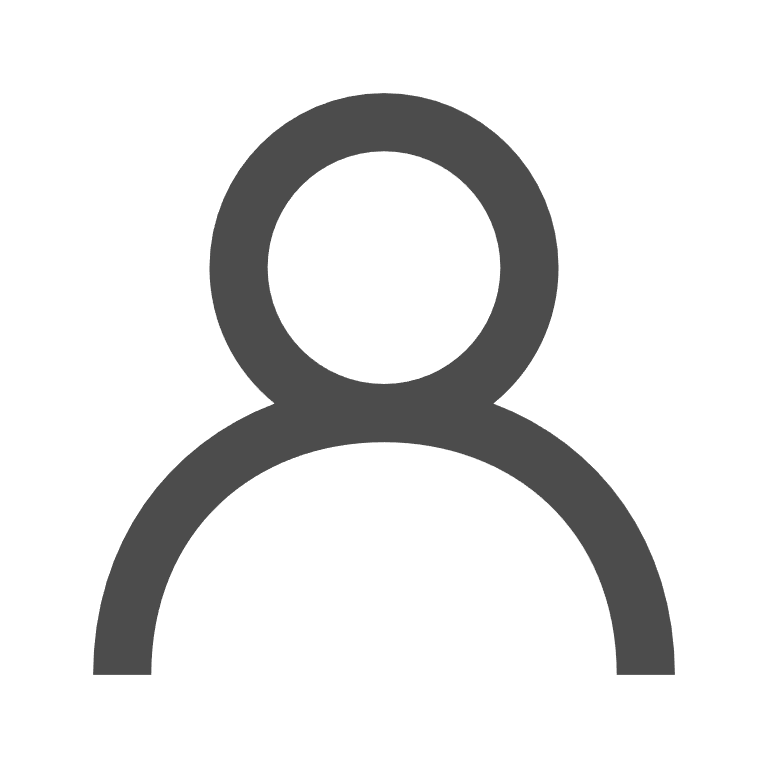
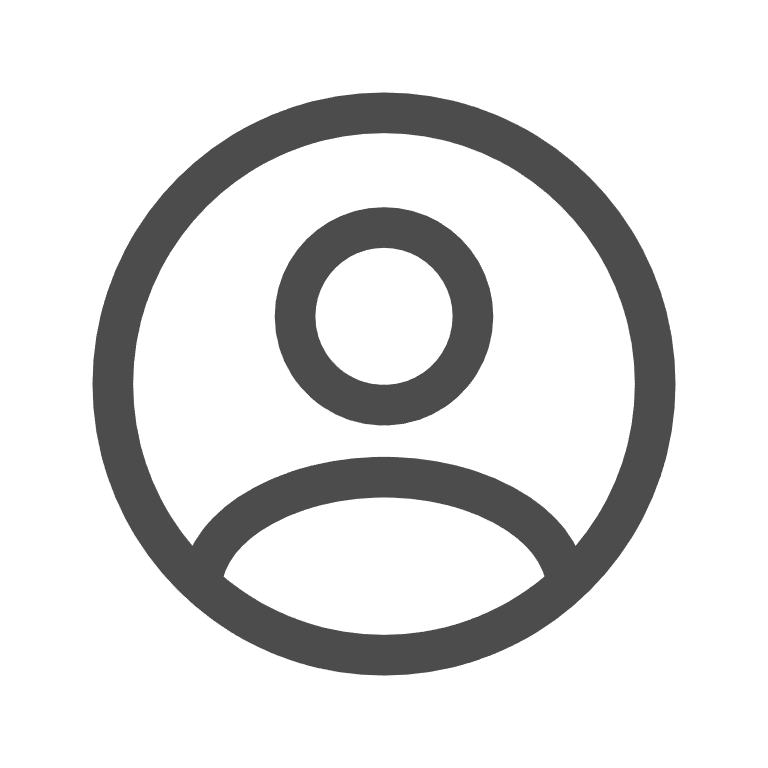
Change settings to profile

Changed region(s): [[0.0938, 0.125, 0.9062, 0.9062]]

diff --git a/js/HoverPopover.js b/js/HoverPopover.js
@@ -1,11 +1,7 @@
 // ============================================================
 // HOVER POPOVERS
 // Used for the sidebar tooltips/menus (New / List / Settings icons).
-//
-// MOBILE_QUERY must stay in sync with the breakpoint in css/responsive.css.
-// Hover popovers rely on mouseenter/mouseleave, which touch devices don't
-// fire reliably, so they are intentionally disabled below this breakpoint
-// rather than left to misbehave (get stuck open, never close, etc).
+// Mobile devices do NOT have hover popovers.
 // ============================================================
 
 const MOBILE_QUERY = '(max-width: 48rem)';
@@ -43,6 +39,14 @@ export class HoverPopover {
         this.popover.addEventListener('mouseenter', () => clearTimeout(this.hideTimeout));
         this.popover.addEventListener('mouseleave', () => this.scheduleHide());
 
+        // Delegated once here, rather than re-attached to every .popover-btn
+        // inside show(). The content (and its buttons) gets rebuilt on every
+        // open, but this listener on the stable popover container doesn't
+        // need to be — it just checks what was actually clicked.
+        this.popover.addEventListener('click', (e) => {
+            if (e.target.classList.contains('popover-btn')) this.hide();
+        });
+
         document.body.appendChild(this.popover);
     }
 
@@ -71,11 +75,6 @@ export class HoverPopover {
         const rect = this.target.getBoundingClientRect();
         this.popover.style.top = `${rect.top}px`;
         this.popover.style.left = `${rect.right + 10}px`;
-
-        // Hide after any option inside is clicked
-        this.popover.querySelectorAll('.popover-btn').forEach(btn => {
-            btn.addEventListener('click', () => this.hide());
-        });
 
         this.popover.classList.add('active');
     }

diff --git a/layout.html b/layout.html
@@ -27,7 +27,7 @@
             <img class="icon" src="images/logo.png" id="logo" alt="">
             <img class="icon" src="images/new.png" id="btn-new" alt="">
             <img class="icon" src="images/list.png" id="btn-list" alt="">
-            <img class="icon" src="images/settings.png" id="btn-settings" alt="">
+            <img class="icon" src="images/profile.png" id="btn-settings" alt="">
         </div>
 
         <!-- Main Content Area -->

diff --git a/css/buttons.css b/css/buttons.css
@@ -8,7 +8,7 @@
     background: var(--card-bg);
     color: var(--text-color);
     border: 0.0625rem solid var(--accent-color);
-    border-radius: 0.25rem;
+    border-radius: 0.5rem;
     padding: 0.2rem 0.4rem;
     font-family: inherit;
     font-weight: 600;

diff --git a/js/sidebarPopovers.js b/js/sidebarPopovers.js
@@ -26,5 +26,5 @@ export function initSidebarPopovers(registry) {
             .join('');
     });
 
-    new HoverPopover('btn-settings', 'Settings', null);
+    new HoverPopover('btn-settings', 'Profile and settings', null);
 }
